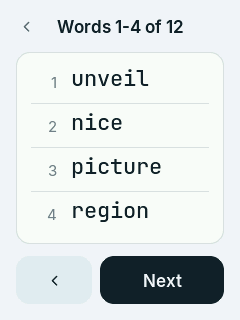
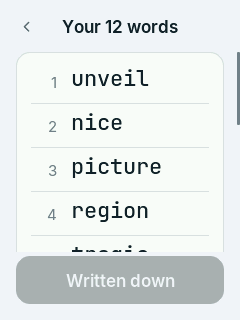
New seed: all words on one scrolling list
Writing down a new seed took three pages of four words with Next between
them. The words now sit on one scrolling list ("Your 12 words", or 24 for a
loaded seed's backup). "Written down" only works once the list has been
scrolled to its end, so no word is skipped, as the pages ensured before.
Same screen for New seed, BIP-85 child seeds and backing up a loaded seed.

diff --git a/start/index.html b/start/index.html
@@ -164,7 +164,7 @@
       <div class="shots">
         <figure><img src="../img/screens/1_home.png" alt="Home screen: Enter words, Scan QR, Create new seed" loading="lazy"><figcaption>Home</figcaption></figure>
         <figure><img src="../img/screens/15_new_seed.png" alt="New seed screen: Dice rolls, Coin flips, Draw words" loading="lazy"><figcaption>Create new seed</figcaption></figure>
-        <figure><img src="../img/screens/18_backup_words.png" alt="The device showing words 1 to 4 of 12 to write down" loading="lazy"><figcaption>Write the words down</figcaption></figure>
+        <figure><img src="../img/screens/18_backup_words.png" alt="The device showing the 12 words to write down, in a scrolling list" loading="lazy"><figcaption>Write the words down</figcaption></figure>
       </div>
       <h3>You already have a seed</h3>
       <p>Tap <b>Scan QR</b> to scan its SeedQR, or <b>Enter words</b> to type it in.</p>

diff --git a/firmware/src/app/ui.cpp b/firmware/src/app/ui.cpp
@@ -1106,11 +1106,10 @@ static bool child_seed;                  // pending is a BIP-85 child of the loa
 static UiScreen backup_cancel = UI_NEW_SEED;   // where Cancel/Discard on the warning goes
 static bool child_failed;                // the last Continue couldn't derive a child
 static char child_num[11] = "0";         // child number; reset when a length is picked, not by new_seed_wipe
-static int words_page;                   // Write down words: 4 per page
 // Seed material shown on screen. lv_label_set_text would copy it into the LVGL
 // heap, which is freed without wiping; these labels point at static buffers
 // (lv_label_set_text_static) that new_seed_wipe() zeroes.
-static char txt_words[4][12], txt_field[16], txt_sugg[2][12], txt_tail[40];
+static char txt_words[24][12], txt_field[16], txt_sugg[2][12], txt_tail[40];
 
 // ---------------------------------------------------------------- written page
 // Written words on Scan seed: one still of the written backup (platform_camera_still), its
@@ -1204,7 +1203,7 @@ static void new_seed_wipe() {
     secure_zero(txt_field, sizeof(txt_field));
     secure_zero(txt_sugg, sizeof(txt_sugg));
     secure_zero(txt_tail, sizeof(txt_tail));
-    entropy_n = word_n = qr_n = block_i = words_page = 0;
+    entropy_n = word_n = qr_n = block_i = 0;
     backup_existing = drawing = final_flips = card_checked = child_seed = false;
     backup_cancel = UI_NEW_SEED;
 }
@@ -2509,55 +2508,56 @@ static void build_backup_block() {
 }
 
 // ---------------------------------------------------------------- write down words
-static int words_pages() { return new_words / 4; }
+// All the words on one list. "Written down" only works once the list has been
+// scrolled to its end, so no word is skipped.
+static lv_obj_t *words_done_btn;
 
-static void words_next_cb(lv_event_t *) {
-    if (words_page + 1 < words_pages()) { words_page++; ui_goto(UI_BACKUP_WORDS); }
-    else ui_goto(UI_BACKUP_CHOICE);
-}
-static void words_prev_cb(lv_event_t *) {
-    if (words_page > 0) { words_page--; ui_goto(UI_BACKUP_WORDS); }
-    else ui_goto(UI_BACKUP_WARNING);
+static void words_done_cb(lv_event_t *) { ui_goto(UI_BACKUP_CHOICE); }
+static void backup_words_back_cb(lv_event_t *) { ui_goto(UI_BACKUP_WARNING); }
+static void to_words_cb(lv_event_t *) { ui_goto(UI_BACKUP_WORDS); }
+
+static void words_scroll_cb(lv_event_t *e) {
+    if (lv_obj_get_scroll_bottom((lv_obj_t *)lv_event_get_target(e)) <= 2)
+        lv_obj_remove_state(words_done_btn, LV_STATE_DISABLED);
 }
 
 static void build_backup_words() {
     lv_obj_t *scr = screen();
     char title[32];
-    snprintf(title, sizeof(title), "Words %d-%d of %d", words_page * 4 + 1, words_page * 4 + 4, new_words);
-    topbar(scr, title, words_prev_cb);
+    snprintf(title, sizeof(title), "Your %d words", new_words);
+    topbar(scr, title, backup_words_back_cb);
     uint16_t idx[24];
     seed_word_indexes(pending, idx);
-    lv_obj_t *c = card(scr, CW, 4 * 44 + 16);
-    lv_obj_align(c, LV_ALIGN_TOP_MID, 0, BAR + 4);
-    for (int i = 0; i < 4; i++) {
-        int w = words_page * 4 + i;
+    lv_obj_t *list = scroll_area(scr, BAR + 4);
+    lv_obj_t *c = card(list, CW, new_words * 44 + 16);
+    lv_obj_remove_flag(c, LV_OBJ_FLAG_SCROLLABLE);
+    for (int w = 0; w < new_words; w++) {
         char num[12];
         snprintf(num, sizeof(num), "%d", w + 1);
         lv_obj_t *n = text(c, num, &inter_15, TEXT_3, LV_TEXT_ALIGN_RIGHT);
         lv_obj_set_width(n, 26);
-        lv_obj_align(n, LV_ALIGN_TOP_LEFT, 0, i * 44 + 8);
+        lv_obj_align(n, LV_ALIGN_TOP_LEFT, 0, w * 44 + 8);
         bool last = w == new_words - 1;
-        snprintf(txt_words[i], sizeof(txt_words[i]), "%s", seed_word(idx[w]));
+        snprintf(txt_words[w], sizeof(txt_words[w]), "%s", seed_word(idx[w]));
         lv_obj_t *t = text(c, "", &mono_22, last && drawing ? ACCENT : TEXT, LV_TEXT_ALIGN_LEFT);
-        lv_label_set_text_static(t, txt_words[i]);
-        lv_obj_align(t, LV_ALIGN_TOP_LEFT, 40, i * 44 + 2);
-        if (i) divider(c, i * 44 - 6);
+        lv_label_set_text_static(t, txt_words[w]);
+        lv_obj_align(t, LV_ALIGN_TOP_LEFT, 40, w * 44 + 2);
+        if (w) divider(c, w * 44 - 6);
     }
     secure_zero(idx, sizeof(idx));
-    bool last = words_page + 1 == words_pages();
-    bottom_pair(btn_ghost(scr, ICON_LEFT, words_prev_cb, nullptr, TEXT),
-                btn_primary(scr, last ? "Written down" : "Next", words_next_cb));
+    words_done_btn = btn_primary(scr, "Written down", words_done_cb);
+    place_bottom(words_done_btn);
+    lv_obj_add_state(words_done_btn, LV_STATE_DISABLED);
+    lv_obj_set_style_bg_opa(words_done_btn, LV_OPA_30, LV_STATE_DISABLED);
+    lv_obj_add_event_cb(list, words_scroll_cb, LV_EVENT_SCROLL, nullptr);
+    lv_obj_update_layout(list);
+    lv_obj_send_event(list, LV_EVENT_SCROLL, nullptr);   // a list that fits needs no scrolling
     show(scr);
-}
-
-static void to_last_words_cb(lv_event_t *) {
-    words_page = words_pages() - 1;
-    ui_goto(UI_BACKUP_WORDS);
 }
 
 static void build_backup_choice() {
     lv_obj_t *scr = screen();
-    topbar(scr, "QR code", to_last_words_cb);
+    topbar(scr, "QR code", to_words_cb);
     lv_obj_align(icon_badge(scr, ICON_QR, ACCENT, ACCENT_DIM, 64), LV_ALIGN_TOP_MID, 0, BAR + 8);
     lv_obj_align(text(scr, "Back up as QR?", &rethink_24, TEXT), LV_ALIGN_TOP_MID, 0, BAR + 86);
     lv_obj_align(para(scr, "Copy it square by square, then load the seed by scanning instead of typing.", &inter_13,

diff --git a/firmware/e2e/test_singlesig.py b/firmware/e2e/test_singlesig.py
@@ -37,11 +37,14 @@ def test_new_seed_to_signed_transaction(dev):
         dev.tap_icon("DICE_" + roll)
     assert "Keep it offline" in dev.text()
     dev.tap("I understand")
-    words = []
-    while dev.screen == "BACKUP_WORDS":
-        texts = dev.texts()
-        words += [texts[i + 1] for i, t in enumerate(texts) if t.isdigit()]
-        dev.tap("Next" if "Next" in texts else "Written down")
+    texts = dev.texts()   # all the words on one list, scrolled or not
+    words = [texts[i + 1] for i, t in enumerate(texts) if t.isdigit()]
+    dev.tap("Written down")
+    assert dev.screen == "BACKUP_WORDS"   # not before the list was scrolled to its end
+    for _ in range(3):
+        dev.cmd("drag 120 230 120 50")   # up the list, above the button
+        dev.wait(500)
+    dev.tap("Written down")
     mnemonic = " ".join(words)
     assert len(words) == 12 and bip39.mnemonic_is_valid(mnemonic)
     dev.tap("Skip")   # no QR card

diff --git a/firmware/src/app/ui.h b/firmware/src/app/ui.h
@@ -53,7 +53,7 @@ enum UiScreen {
     UI_ENTROPY_COINS,
     UI_ENTER_WORDS,      // one screen per word
     UI_BACKUP_WARNING,
-    UI_BACKUP_WORDS,     // 4 words per page, new seeds only
+    UI_BACKUP_WORDS,     // all the words on one scrolling list
     UI_BACKUP_CHOICE,    // add a QR card, or skip
     UI_BACKUP_QR,        // the whole SeedQR
     UI_BACKUP_BLOCK,     // one 5x5 block per screen
